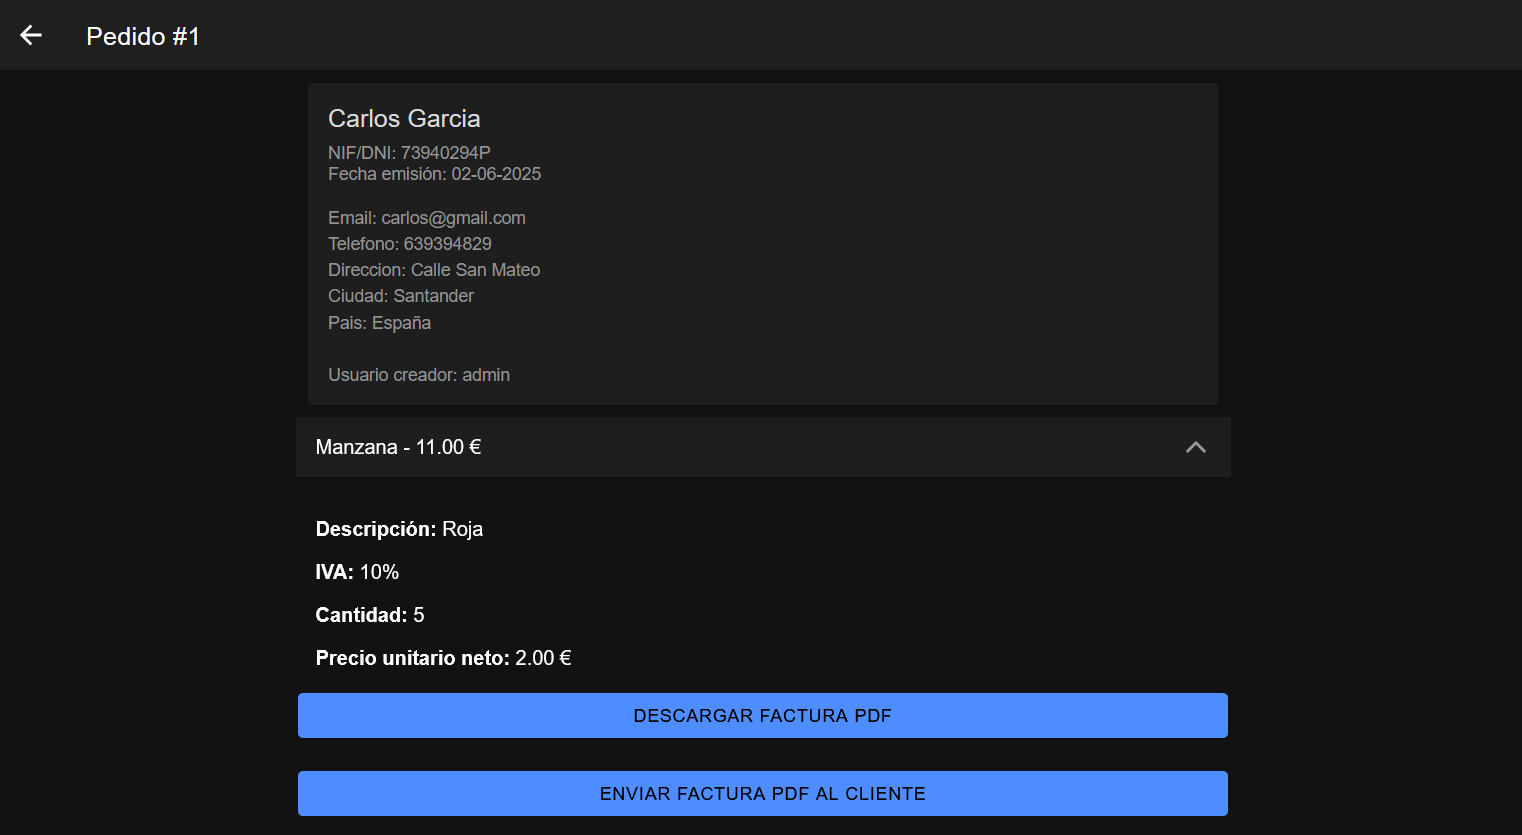
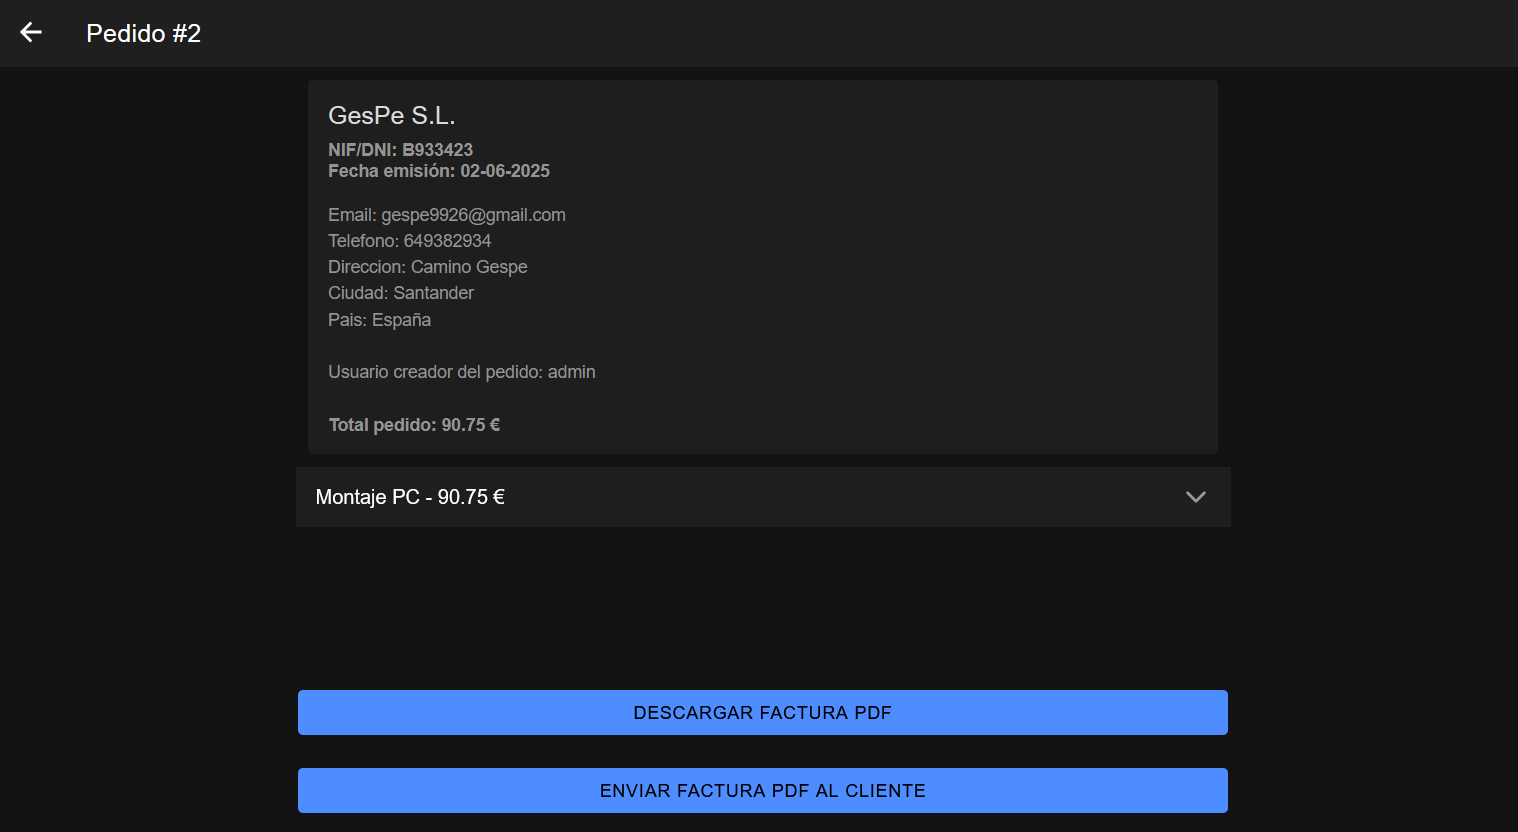
commit

diff --git a/src/app/pages/pedidos/pedido-detalle/pedido-detalle.page.html b/src/app/pages/pedidos/pedido-detalle/pedido-detalle.page.html
@@ -13,8 +13,8 @@
     <ion-card>
       <ion-card-header>
         <ion-card-title>{{cliente.nombre}} {{cliente.apellidos}}</ion-card-title>
-        <ion-card-subtitle>NIF/DNI: {{cliente.nif}}<br>Fecha emisión: {{pedidoFecha | date:
-          'dd-MM-yyyy'}}</ion-card-subtitle>
+        <ion-card-subtitle><b>NIF/DNI: {{cliente.nif}}<br>Fecha emisión: {{pedidoFecha | date:
+            'dd-MM-yyyy'}}</b></ion-card-subtitle>
       </ion-card-header>
 
       <ion-card-content>
@@ -23,7 +23,8 @@
         Direccion: {{cliente.direccion}}<br>
         Ciudad: {{cliente.ciudad}}<br>
         Pais: {{cliente.pais}}<br><br>
-        Usuario creador: {{ usuarioCreador }}<br>
+        Usuario creador del pedido: {{ usuarioCreador }}<br><br>
+        <b>Total pedido: {{ pedidoTotal | number: '1.2-2' }} €</b><br>
       </ion-card-content>
     </ion-card>
 

diff --git a/src/app/pages/pedidos/pedido-detalle/pedido-detalle.page.ts b/src/app/pages/pedidos/pedido-detalle/pedido-detalle.page.ts
@@ -21,6 +21,7 @@ export class PedidoDetallePage implements OnInit {
 
   pedidoId: number | undefined;
   pedidoFecha: string | undefined;
+  pedidoTotal: number | undefined;  // Añadido para almacenar el total del pedido
   cliente: any;
   detalles: any;
   usuarioCreador: string | undefined;
@@ -36,6 +37,7 @@ export class PedidoDetallePage implements OnInit {
     if (navigation?.extras.state) {
       this.pedidoId = navigation.extras.state['pedidoId'];
       this.pedidoFecha = navigation.extras.state['pedidoFecha'];
+      this.pedidoTotal = navigation.extras.state['pedidoTotal'];  // Obtiene el total del pedido
       this.cliente = navigation.extras.state['cliente'];
       this.usuarioCreador = navigation.extras.state['usuarioCreador'];
       this.loadDetalles();  // Llama a la función para cargar los detalles del pedido

diff --git a/src/app/pages/pedidos/pedidos.page.ts b/src/app/pages/pedidos/pedidos.page.ts
@@ -48,8 +48,8 @@ export class PedidosPage implements ViewWillEnter {
   }
 
   ionViewWillEnter() {
-      this.loadPedidos();
-      this.fechaFin = this.getFechaMinMax(false);
+    this.loadPedidos();
+    this.fechaFin = this.getFechaMinMax(false);
   }
 
   loadPedidos() {
@@ -130,6 +130,7 @@ export class PedidosPage implements ViewWillEnter {
       state: {
         pedidoId: pedido.id,  // El id del pedido
         pedidoFecha: pedido.fechaEmision,  // La fecha del pedido
+        pedidoTotal: pedido.total,  // El total del pedido
         cliente: pedido.cliente,  // El objeto completo cliente
         usuarioCreador: pedido.usuarioCreador.username,  // El objeto completo usuarioCreador
       }
